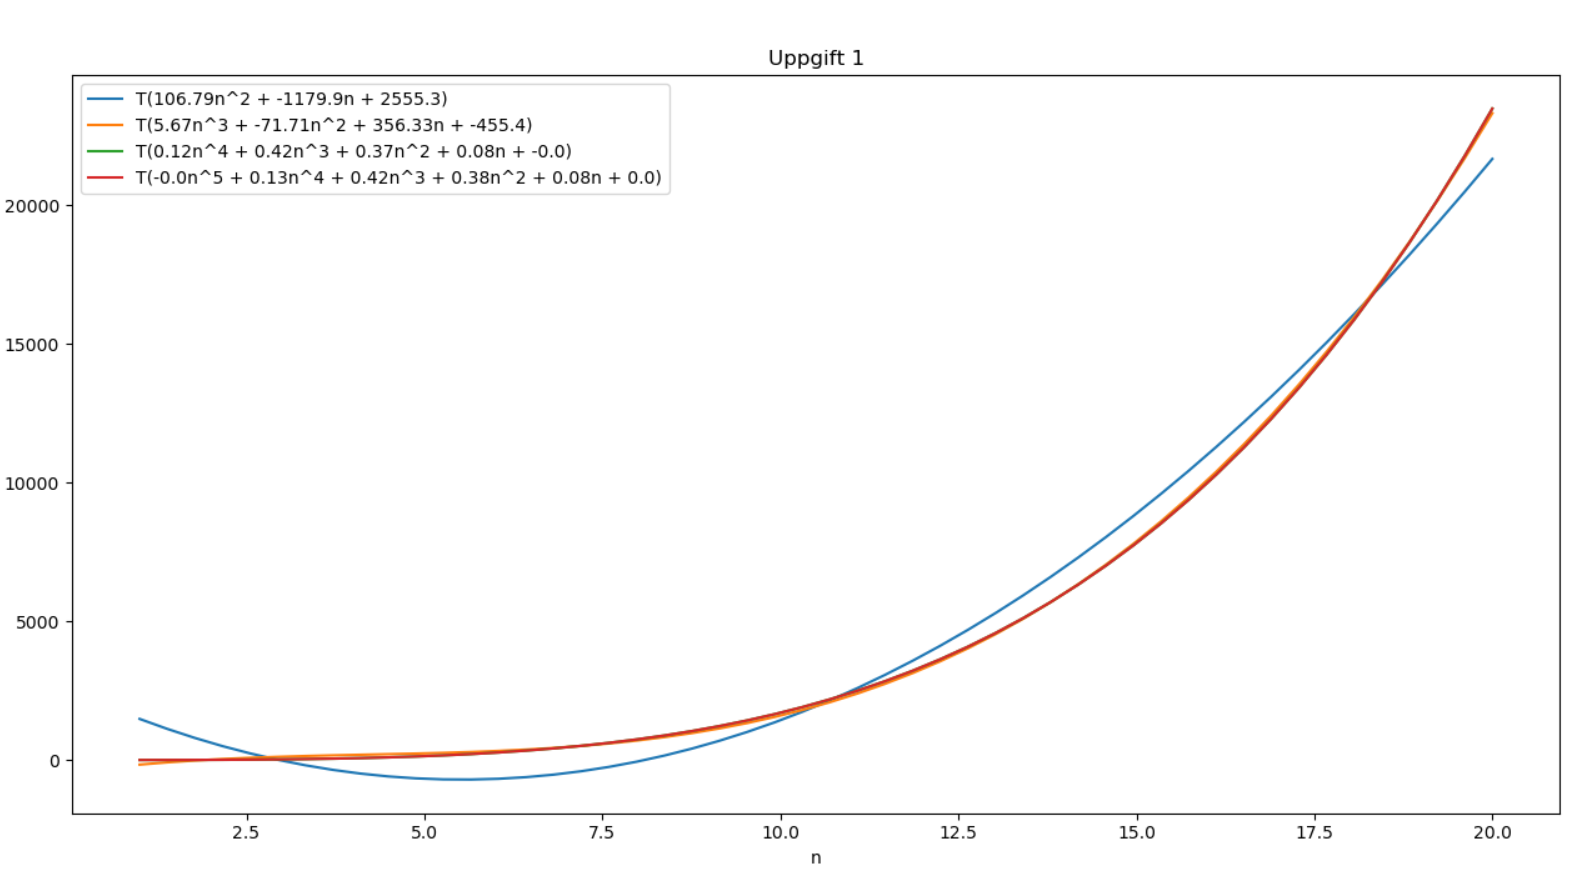
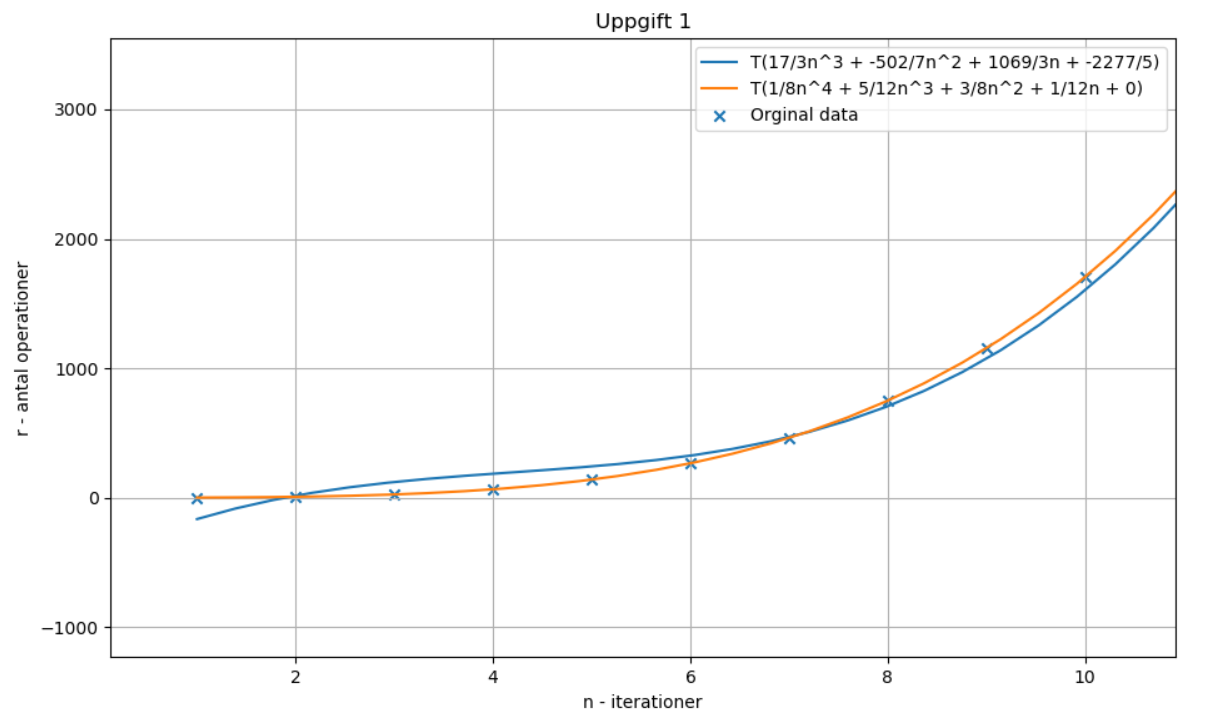
update readme, and other files

diff --git a/AlgoritmerDatastrukturer/ADKJavaLabbar/plots.py b/AlgoritmerDatastrukturer/ADKJavaLabbar/plots.py
@@ -1,5 +1,6 @@
 import matplotlib.pyplot as plt
 import numpy as np
+import fractions
 
 
 # ADD 0?
@@ -29,63 +30,36 @@ y = [
 
 
 plt.title("Uppgift 1")
-plt.ylabel("r")
-plt.xlabel("n")
+plt.ylabel("r - antal operationer")
+plt.xlabel("n - iterationer")
 
 
-"""
-poly = np.polyfit(x,y,2)
-poly_1d = np.poly1d(poly)
-xaxis = np.linspace(x[0], x[-1], 50)
-yaxis = poly_1d(xaxis)
-
-equation = str(round(poly[0], 2)) + "n^2 + " 
-equation += str(round(poly[1],2)) + "n + " 
-equation += str(round(poly[2], 2))
-plt.plot(xaxis, yaxis, label="T(" + equation + ")")
-"""
 poly = np.polyfit(x,y,3)
 poly_1d = np.poly1d(poly)
 xaxis = np.linspace(x[0], x[-1], 50)
 yaxis = poly_1d(xaxis)
 
-equation = str(round(poly[0], 2)) + "n^3 + "
-equation += str(round(poly[1], 2)) + "n^2 + " 
-equation += str(round(poly[2], 2)) + "n + " 
-equation += str(round(poly[3], 2))
+equation  = str(fractions.Fraction(poly[0]).limit_denominator()) + "n^3 + "
+equation += str(fractions.Fraction(poly[1]).limit_denominator()) + "n^2 + "
+equation += str(fractions.Fraction(poly[2]).limit_denominator()) + "n + " 
+equation += str(fractions.Fraction(poly[3]).limit_denominator())
 plt.plot(xaxis, yaxis, label="T(" + equation + ")")
+
 
 poly = np.polyfit(x,y,4)
 poly_1d = np.poly1d(poly)
 xaxis = np.linspace(x[0], x[-1], 50)
 yaxis = poly_1d(xaxis)
 
-equation = str(round(poly[0], 2)) + "n^4 + "
-equation += str(round(poly[1], 2)) + "n^3 + "
-equation += str(round(poly[2], 2)) + "n^2 + " 
-equation += str(round(poly[3], 2)) + "n + " 
-equation += str(round(poly[4], 2))
+equation = str(fractions.Fraction(poly[0]).limit_denominator()) + "n^4 + "
+equation += str(fractions.Fraction(poly[1]).limit_denominator()) + "n^3 + "
+equation += str(fractions.Fraction(poly[2]).limit_denominator()) + "n^2 + "
+equation += str(fractions.Fraction(poly[3]).limit_denominator()) + "n + " 
+equation += str(fractions.Fraction(poly[4]).limit_denominator())
 plt.plot(xaxis, yaxis, label="T(" + equation + ")")
 
 
-poly = np.polyfit(x,y,5)
-poly_1d = np.poly1d(poly)
-xaxis = np.linspace(x[0], x[-1], 50)
-yaxis = poly_1d(xaxis)
-equation = str(round(poly[0], 2)) + "n^5 + "
-equation += str(round(poly[1], 2)) + "n^4 + "
-equation += str(round(poly[2], 2)) + "n^3 + "
-equation += str(round(poly[3], 2)) + "n^2 + " 
-equation += str(round(poly[4], 2)) + "n + " 
-equation += str(round(poly[5], 2))
-plt.plot(xaxis, yaxis, label="T(" + equation + ")")
-
-
-
-plt.scatter(x,y, label="orginal", marker="x")
-
-x = np.linspace(1, 20, 100)
-plt.plot(x, 6*x**3, label="O(n^3), c=6, 2.5 < n0 < 2.7")
-
+plt.scatter(x,y, label="Orginal data", marker="x")
 plt.legend()
+plt.grid(axis='both')
 plt.show()

diff --git a/AlgoritmerDatastrukturer/ADKJavaLabbar/src/labb3/BinarySearchTree.java b/AlgoritmerDatastrukturer/ADKJavaLabbar/src/labb3/BinarySearchTree.java
@@ -66,6 +66,8 @@ public class BinarySearchTree<E extends Comparable<E>> {
 	
 	public E search(E target) {
 		
+		if(root == null) return null;
+		
 		Queue<Node<E>> queue = new LinkedList<Node<E>>();
 		queue.add(root);
 		
@@ -84,21 +86,15 @@ public class BinarySearchTree<E extends Comparable<E>> {
 	}
 	
 	public E maxRec() {
-		return max(root.data, root);
+		return max(root);
 	}
 	
-	private E max(E max, Node<E> node) {
+	private E max(Node<E> node) {
 		if(node == null) return null;
 		
-		if(max.compareTo(node.data) < 0)
-			max = node.data;
-		E left = max(max, node.left);
-		if(left != null && max.compareTo(left) < 0)
-			max = left;
-		E right = max(max, node.right);
-		if(right != null && max.compareTo(right) < 0)
-			max = right;
-		return max;
+		if(node.right != null)
+			return max(node.right);
+		else return node.data;
 		
 		
 	}
@@ -106,22 +102,12 @@ public class BinarySearchTree<E extends Comparable<E>> {
 	public E maxIte() {
 		
 		if (root==null) return null;
-		Queue<Node<E>> queue = new LinkedList<Node<E>>();
-		E target = root.data;
-		queue.add(root);
 		
-		while(!queue.isEmpty()) {
-			Node<E> current = queue.poll();
-			if(target.compareTo(current.data) < 0)
-				target = current.data;
-			if(current.left != null)
-				queue.add(current.left);
-			if(current.right != null)
-				queue.add(current.right);
-			
-		}
+		Node<E> node = root;
+		while(node.right != null)
+			node= node.right;
 		
-		return target;
+		return node.data;
 	}
 	
 	private E find(E target, Node<E> node) {

diff --git a/AlgoritmerDatastrukturer/ADKJavaLabbar/src/labb3/Radix.java b/AlgoritmerDatastrukturer/ADKJavaLabbar/src/labb3/Radix.java
@@ -31,13 +31,10 @@ public class Radix {
 		}
 		
 		boolean done = true;
-		//String s = "" + arr[0];
-		for(int i=1; i < arr.length; i++) {
-			//s += "\n" + arr[i];
-			done &= (arr[i] >= arr[i-1]);
-		}
+
+		for(int i=1; i < arr.length; i++) done &= (arr[i] >= arr[i-1]);		
 		System.out.println("Sorting works? : " + done);
-		//System.out.println(s);
+
 		
 		
 		return null;
@@ -67,10 +64,6 @@ public class Radix {
 		for(int i=0; i<original.length; i++) idx[getDigit(digit, original[i])]++;
 		
 		for(int i=1; i<idx.length;i++) idx[i] += idx[i-1];
-		
-		for(int i=0; i<idx.length;i++) {
-			//System.out.println("idx" +i + " = " + idx[i]);
-		}
 		
 		for(int i=original.length-1;i>=0;i--) {
 			idx[getDigit(digit, original[i])]--;

diff --git a/AlgoritmerDatastrukturer/ADKJavaLabbar/src/labb3/RED3.java b/AlgoritmerDatastrukturer/ADKJavaLabbar/src/labb3/RED3.java
@@ -15,7 +15,7 @@ public class RED3 {
 	public static void upg7() {
 		
 		Puzzle p = new Puzzle();
-		p.run(3, 1);
+		p.run(5, 5);
 		
 		
 	}

diff --git a/AlgoritmerDatastrukturer/ADKJavaLabbar/README.md b/AlgoritmerDatastrukturer/ADKJavaLabbar/README.md
@@ -28,13 +28,16 @@ for (int i=1; i <= n; i++) {
 
 ```
 ![Grafer](https://github.com/Kenfors/DataLabbar/blob/master/AlgoritmerDatastrukturer/ADKJavaLabbar/empirisk.PNG)
-**Uppenbar O(n^3), då koefficienterna på n^4 och n^5 nästan är 0**  
+I grafen ser man att storleksordningen n^3 inte passar helt.
 
-**Koef för kubisk: 5.67, -71.71, 356.33, -455**  
 
-**Uttryck ~ 17/3n^3 - 502/7n^2 + 356n - 455**
+Analys av storleksordningen n^4 passar nästan prick på.
+
+
+
 
 ![Grafer](https://github.com/Kenfors/DataLabbar/blob/master/AlgoritmerDatastrukturer/ADKJavaLabbar/empirisk2.PNG)
+
 
 ##### Uppgift 2.
 
